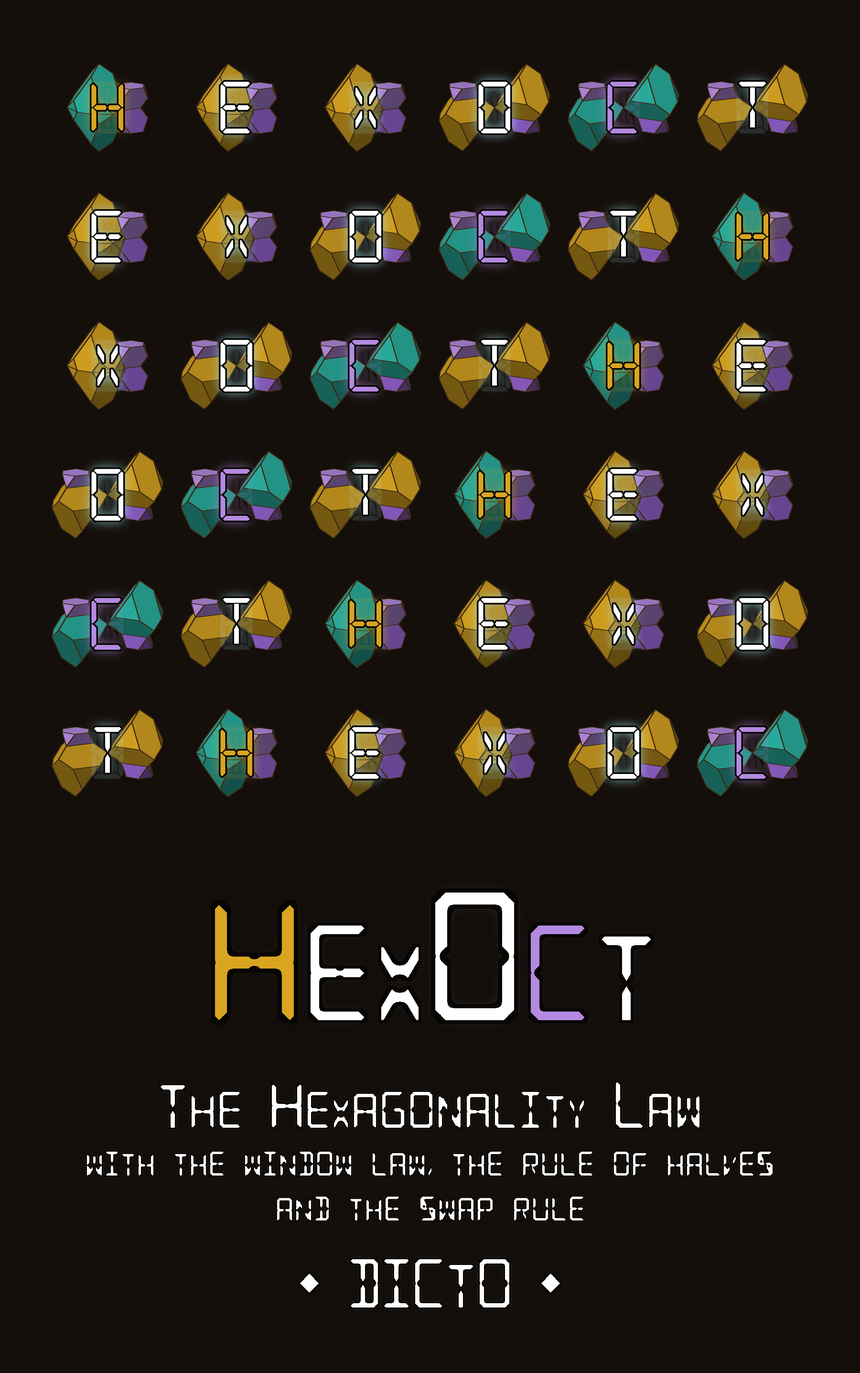
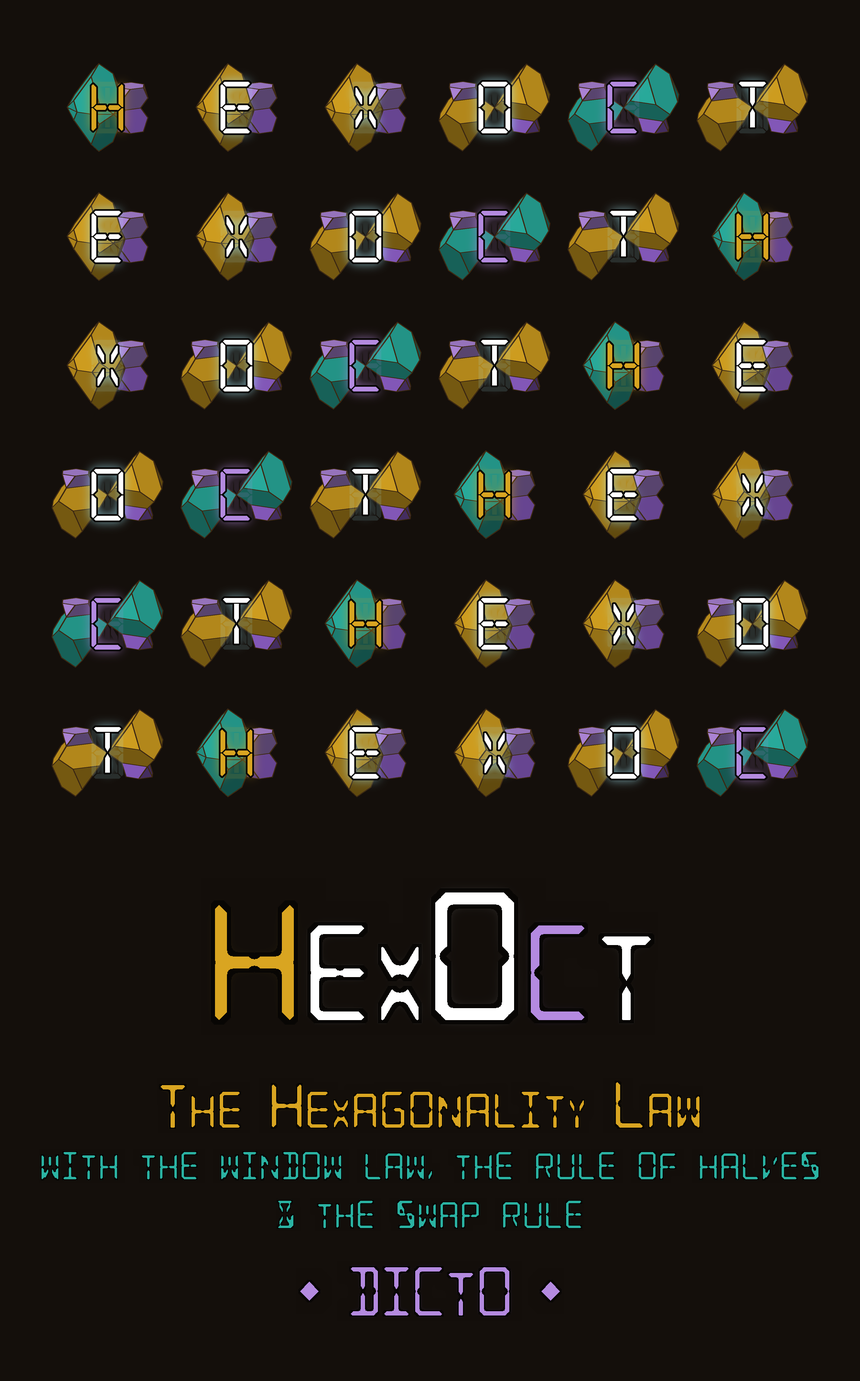
HexOct v7 draft: hierarchy of the rules stated in the opening and the epilogue (same words, table, proofs cited); subtitle with ampersand; cover colours as the other books (gold title, teal subtitle, violet DICTO)

diff --git a/papers/book-laws-of-stacking/paper.html b/papers/book-laws-of-stacking/paper.html
@@ -12,7 +12,7 @@ h1.chapter{break-before:page;font-size:19pt;margin-top:0} p.from{font-size:8.5pt
 .part{break-before:page;height:200mm;display:flex;align-items:center;justify-content:center} h1.partt{font-size:26pt;color:#b8962e}
 table.toc td{border-bottom:1px dotted #ccc;padding:1.2mm 2mm} .titlepage{height:240mm;display:flex;flex-direction:column;justify-content:center}
 .titlepage h1{font-size:30pt} section.epi,section.app{break-before:page} section.app h3{font-size:10pt;margin-top:5mm} section.app p,section.app li{font-size:8.6pt}
-figure img{width:100%;display:block} figure.mid{width:auto}
+figure img{width:100%;display:block} figure.mid{width:auto} table.rules{font-size:8.6pt;margin:2mm 0 3mm} table.rules th{text-align:left} h2,h3{break-after:avoid}
 section.plate{break-before:page;break-inside:avoid} section.plate>img{display:block;width:180mm;height:200mm;margin:0 auto}
 .pcap h2{margin:3mm 0 1mm;font-size:13pt} .pcap p.pkey{font-size:8.6pt;color:#555;margin:0 0 1.5mm} .pcap ul{margin:0;padding-left:5mm} .pcap li{font-size:8.8pt;line-height:1.32;margin:0 0 .6mm}
 /* DICTO 10-29: neutral sans-serif for the whole book (the papers' DejaVu Serif read as Times-like) */
@@ -20,18 +20,18 @@ body,h1,h2,h3,h4,.sub,.meta,figcaption,table,.status,ol.refs{font-family:"Nimbus
 body{font-size:10pt}</style></head><body>
 <img class="watermark" src="../dicto-logo.png" alt="">
 <div class="coverpage" style="height:252mm;display:flex;justify-content:center;align-items:center">
-<img src="figures/cover/hexoct-cover-front-v7.png" alt="Cover: HexOct, The Hexagonality Law, with the Window Law, the Rule of Halves and the Swap Rule, DICTO, over the HexOct square of the two tiles" style="height:248mm;display:block">
+<img src="figures/cover/hexoct-cover-front-v7.png" alt="Cover: HexOct, The Hexagonality Law, with the Window Law, the Rule of Halves &amp; the Swap Rule, DICTO, over the HexOct square of the two tiles" style="height:248mm;display:block">
 </div>
 <div class="titlepage" style="break-before:page">
 <img class="logo" src="../dicto-logo.png" alt="DICTO" style="position:static;width:42mm;margin-bottom:8mm">
 <h1>HexOct</h1>
 <p class="sub">The Hexagonality Law</p>
-<p class="sub" style="margin-top:0">with the Window Law, the Rule of Halves and the Swap Rule</p>
+<p class="sub" style="margin-top:0">with the Window Law, the Rule of Halves &amp; the Swap Rule</p>
 <p class="epigraph" style="margin-top:12mm;font-style:italic;font-size:13pt">The Law gave the pieces,<br>The pieces prove the law.</p>
 <p style="font-size:9pt;color:#555;margin-top:-2mm">DICTO</p>
 <p style="margin-top:14mm"><b>DICTO</b><br>artist, Osaka, Japan · ORCID 0009-0001-2620-2036<br>https://dictospheres.com</p>
 <p style="font-size:9pt;color:#555;margin-top:10mm">Book · Version 7, third edition · 1 November 2026 · DICTO DOI: 10.5281/zenodo.23731359 · Licence CC BY-SA 4.0<br>
-The ideas and names are DICTO's. Computation and proof with Claude (Anthropic).<br>Titled HexOct: The Hexagonality Law from version 5 (DICTO, 30 October 2026); versions 2 to 4 were titled HexOct: The Laws of Stacking, and the first edition The Laws of Stacking (28 October 2026), all the same record.<br>Version 7 adds Part IV, The Window Law (Chapter 15), with the subtitle "with the Window Law, the Rule of Halves and the Swap Rule" (DICTO, 1 November 2026), and reads the whole book within it: the Hexagonality Law is the Window Law's window of one layer. Version 6 added thirteen full-page plates after Chapter 14: the two tiles, HexOct-K, seven stackings built from the tiles, and Chucky, Fang and the Triskelion Tetrahedron.<br>Cover: the HexOct square (DICTO): HEXOCT across the top and down the side, each letter once in every row and column; H, E, X on the h-tile and O, C, T on the c-tile; where the tile matches its letter, H on the h-tile and C on the c-tile, the tile is teal.</p>
+The ideas and names are DICTO's. Computation and proof with Claude (Anthropic).<br>Titled HexOct: The Hexagonality Law from version 5 (DICTO, 30 October 2026); versions 2 to 4 were titled HexOct: The Laws of Stacking, and the first edition The Laws of Stacking (28 October 2026), all the same record.<br>Version 7 adds Part IV, The Window Law (Chapter 15), with the subtitle "with the Window Law, the Rule of Halves &amp; the Swap Rule" (DICTO, 1 November 2026), and reads the whole book within it: the Hexagonality Law is the Window Law's window of one layer. Version 6 added thirteen full-page plates after Chapter 14: the two tiles, HexOct-K, seven stackings built from the tiles, and Chucky, Fang and the Triskelion Tetrahedron.<br>Cover: the HexOct square (DICTO): HEXOCT across the top and down the side, each letter once in every row and column; H, E, X on the h-tile and O, C, T on the c-tile; where the tile matches its letter, H on the h-tile and C on the c-tile, the tile is teal.</p>
 </div>
 <section style="break-before:page">
 <h2>Opening</h2>
@@ -40,7 +40,10 @@ The ideas and names are DICTO's. Computation and proof with Claude (Anthropic).<
 <h2>The Hexagonality Law, defined</h2>
 <p>DICTO's Hexagonality Law is a law of structural crystallography: in every close-packed crystal structure, however its layers are stacked, every count of the structure (its pieces, holes, bonds and swaps) is a straight line in the structure's hexagonality, the crystallographers' share of hexagonal layers.</p>
 <p><b>Its reach, stated exactly</b> (Chapter 15). The counts of the law are totals per layer of what the layers hold: every count read from one layer, and every count of two neighbouring layers that obeys the Swap Rule. The pieces, holes, bonds and swaps of this book are of that kind, since each is borrowed, whole or in half, from one layer's pure stacking (the Rule of Halves) or changes only by swapping (the Swap Rule). A count that sorts sites by what two neighbouring layers do together, and breaks the Swap Rule, such as the octahedra of a perovskite with exactly 0, 1 or 2 shared faces, is not of this kind: the Window Law gives it exactly, as a plane in h and the share p<sub>hh</sub> of neighbouring hexagonal pairs, with the Swap defect as the coefficient of p<sub>hh</sub>.</p>
-<p><b>How the rules fit together.</b> None overrules another. The Window Law always holds, with no geometry assumed; it only says how many numbers a count needs. The Rule of Halves and the Swap Rule are geometry, and they decide the window: the Rule of Halves makes a count of halves a count of one layer, and the Swap Rule brings the counts of whole pieces from two layers down to one. The Hexagonality Law is then the first case of the Window Law, the window of one layer (g = 1). Pair counts beyond the Swap Rule are planes in (h, p<sub>hh</sub>).</p>
+<div style="break-inside:avoid"><p><b>How the rules fit together.</b></p>
+<p><b>The Window Law</b> always holds, for every window g: a count read from g neighbouring layers is a linear function of the shares of the c/h words of length g. <b>The Rule of Halves</b> and <b>the Swap Rule</b> decide which window a count needs. When a count needs only one layer, or two layers and obeys the Swap Rule, the Window Law reduces to <b>the Hexagonality Law</b> (g = 1), the straight line in hexagonality. Pair counts that break the Swap Rule are planes in (h, p<sub>hh</sub>).</p>
+<table class="rules"><tr><th>rule</th><th>place in the hierarchy</th><th>where we prove it</th></tr><tr><td>Window Law (#84)</td><td>always holds, for every window g</td><td>Chapter 15, Main Theorem</td></tr><tr><td>Rule of Halves (#57)</td><td>decides the window: halves are read from one layer, whole pieces from two</td><td>Chapter 1, Theorem (the rule of halves)</td></tr><tr><td>Swap Rule (#61, #64)</td><td>decides the window: Swap defect Δ = 0 brings two-layer counts down to one</td><td>Chapters 3 and 4, Theorem of §3; Chapter 15, Corollary 2</td></tr><tr><td>Hexagonality Law</td><td>g = 1: a straight line in h</td><td>Chapter 15, Corollary 1; Chapter 5, Theorem (Hexagonality Law)</td></tr><tr><td>beyond the Swap Rule</td><td>Δ ≠ 0: a plane in (h, p<sub>hh</sub>), coefficient Δ</td><td>Chapter 15, Main Theorem (d), Corollary 2</td></tr></table>
+<p>We prove this in Chapter 15 (the Window Law, #84), with the Rule of Halves in Chapter 1 and the Swap Rule in Chapters 3 and 4.</p></div>
 <h2>What this book will show</h2>
 <p>By the end of the book seven things will have been demonstrated, each with proof or with the published data that tests it.</p>
 <p>(1) <b>Finitely many pieces.</b> However equal balls are stacked in close-packed layers, the space between and around them is shared out into pieces of finitely many kinds, every one borrowed, whole or in half, from the two pure stackings, cubic and hexagonal (the Rule of Halves, Chapter 1, and its pyrochlore form, Chapter 2).</p>
@@ -1145,8 +1148,10 @@ Proof: V(t|t′) = L(t) + R(t′) with L and R the pure lower and upper half vol
 <p>The second part carried the law into matter. Where the property is a count fixed by geometry, real crystals follow the law exactly: hydrogen sites in titanium and zirconium (2 − h), shared faces in perovskites and battery cathodes (2h), eclipsed bonds in diamond, ice and semiconductors (h/2), kagome planes in magnets (1 + 3(1 − h)). Where the property depends on energy, the law is the first term, and the distance from it is one number per material, the reach of interactions beyond the next layer: tin, germanium, diamond, cobalt and iron lie close to the line; silicon further; silicon carbide, the best-known polytypic material, furthest. In spin ice and water ice the loops that set the frozen-in entropy do not see the stacking at all through every length computed, the law with zero slope (Chapter 13). Geometry fixes what every stacking must contain; the materials choose among the stackings by how far their forces reach.</p>
 <p>The third part returned to the pieces. The Rule of Halves gave them; the two HexOct tiles, the c-tile and the h-tile, are what every layer of every stacking is made of, and they fit in any order (Chapter 14). The law gave the pieces, and the pieces prove the law: a string of the two tiles is a stacking, and each of the laws above is a statement about which tile each layer holds.</p>
 <p>The fourth part set the laws in one frame. The Window Law (Chapter 15) holds for every count of every c/h stacking, with no geometry assumed: a count read from g neighbouring layers is a linear function of the shares of the words of g layers. The Hexagonality Law is its first case, the window of one layer, and it covers exactly what DICTO's definition names, the counts of pieces, holes, bonds and swaps, read from one layer or from two neighbouring layers in a way that obeys the Swap Rule. At two layers one more number enters, the share p<sub>hh</sub> of neighbouring hexagonal pairs, and its coefficient is the Swap defect; so the Swap Rule is exactly the condition for a pair count to stay on the straight line, and a pair count beyond it is a plane in (h, p<sub>hh</sub>). In the physicists' layer model of the second part, the Swap defect is the coupling J<sub>2</sub>, and J<sub>3</sub> is the first coupling that needs three layers: the distance of each material from the line, measured in Chapters 8 to 12, is read window by window. The same frame holds in the perovskites (16 of 36 counts on the line, 9 planes, 11 needing longer windows), in the Frank–Kasper phases, which leave the Yarmolyuk–Kripyakevich line only through one defect, and in the approximants of quasicrystals, which carry zero defect on the chamber that holds the quasicrystal, so that the never-repeating limit lies on the same straight lines. That is one plank of the bridge between periodic and aperiodic order that the Fibonacci stacking began (Chapter 7).</p>
-<h2>How the rules fit together</h2>
-<p>From the general to the particular, and none overruling another. <b>The Window Law</b> always holds; it says how many numbers a count needs. <b>The Rule of Halves</b> is geometry: every piece between two layers is a half from the lower layer's pure stacking and a half from the upper one's, so a count of halves is read from one layer and a count of whole pieces from two. <b>The Swap Rule</b> is geometry too: pieces change only by swapping, which makes the Swap defect of every piece count zero and brings the counts of whole pieces down to one layer. <b>The Hexagonality Law</b> is the result, the Window Law at g = 1: every count of halves, and every count of pieces that obeys the Swap Rule, is a straight line in the hexagonality. Counts of two layers beyond the Swap Rule are planes in (h, p<sub>hh</sub>), and longer windows bring in the shares of longer words, one window at a time.</p>
+<div style="break-inside:avoid"><h2>How the rules fit together</h2>
+<p><b>The Window Law</b> always holds, for every window g: a count read from g neighbouring layers is a linear function of the shares of the c/h words of length g. <b>The Rule of Halves</b> and <b>the Swap Rule</b> decide which window a count needs. When a count needs only one layer, or two layers and obeys the Swap Rule, the Window Law reduces to <b>the Hexagonality Law</b> (g = 1), the straight line in hexagonality. Pair counts that break the Swap Rule are planes in (h, p<sub>hh</sub>).</p>
+<table class="rules"><tr><th>rule</th><th>place in the hierarchy</th><th>proved in</th></tr><tr><td>Window Law (#84)</td><td>always holds, for every window g</td><td>Chapter 15, Main Theorem</td></tr><tr><td>Rule of Halves (#57)</td><td>decides the window: halves are read from one layer, whole pieces from two</td><td>Chapter 1, Theorem (the rule of halves)</td></tr><tr><td>Swap Rule (#61, #64)</td><td>decides the window: Swap defect Δ = 0 brings two-layer counts down to one</td><td>Chapters 3 and 4, Theorem of §3; Chapter 15, Corollary 2</td></tr><tr><td>Hexagonality Law</td><td>g = 1: a straight line in h</td><td>Chapter 15, Corollary 1; Chapter 5, Theorem (Hexagonality Law)</td></tr><tr><td>beyond the Swap Rule</td><td>Δ ≠ 0: a plane in (h, p<sub>hh</sub>), coefficient Δ</td><td>Chapter 15, Main Theorem (d), Corollary 2</td></tr></table>
+<p>Proved in Chapter 15, Main Theorem and Corollaries 1 and 2; the Rule of Halves in Chapter 1, Theorem (the rule of halves); the Swap Rule in Chapters 3 and 4, Theorem of §3; for pieces fixed by two layers, the Swap Rule and the straight line are equivalent by Chapter 5, Theorem (Hexagonality Law).</p></div>
 <h2>The laws and the materials, in one table</h2>
 <h3>Exact on every stacking</h3>
 <table><tr><th>count</th><th>value</th><th>chapter</th></tr>

diff --git a/papers/book-laws-of-stacking/front.html b/papers/book-laws-of-stacking/front.html
@@ -1,16 +1,16 @@
 <div class="coverpage" style="height:252mm;display:flex;justify-content:center;align-items:center">
-<img src="figures/cover/hexoct-cover-front-v7.png" alt="Cover: HexOct, The Hexagonality Law, with the Window Law, the Rule of Halves and the Swap Rule, DICTO, over the HexOct square of the two tiles" style="height:248mm;display:block">
+<img src="figures/cover/hexoct-cover-front-v7.png" alt="Cover: HexOct, The Hexagonality Law, with the Window Law, the Rule of Halves &amp; the Swap Rule, DICTO, over the HexOct square of the two tiles" style="height:248mm;display:block">
 </div>
 <div class="titlepage" style="break-before:page">
 <img class="logo" src="../dicto-logo.png" alt="DICTO" style="position:static;width:42mm;margin-bottom:8mm">
 <h1>HexOct</h1>
 <p class="sub">The Hexagonality Law</p>
-<p class="sub" style="margin-top:0">with the Window Law, the Rule of Halves and the Swap Rule</p>
+<p class="sub" style="margin-top:0">with the Window Law, the Rule of Halves &amp; the Swap Rule</p>
 <p class="epigraph" style="margin-top:12mm;font-style:italic;font-size:13pt">The Law gave the pieces,<br>The pieces prove the law.</p>
 <p style="font-size:9pt;color:#555;margin-top:-2mm">DICTO</p>
 <p style="margin-top:14mm"><b>DICTO</b><br>artist, Osaka, Japan · ORCID 0009-0001-2620-2036<br>https://dictospheres.com</p>
 <p style="font-size:9pt;color:#555;margin-top:10mm">Book · Version 7, third edition · 1 November 2026 · DICTO DOI: 10.5281/zenodo.23731359 · Licence CC BY-SA 4.0<br>
-The ideas and names are DICTO's. Computation and proof with Claude (Anthropic).<br>Titled HexOct: The Hexagonality Law from version 5 (DICTO, 30 October 2026); versions 2 to 4 were titled HexOct: The Laws of Stacking, and the first edition The Laws of Stacking (28 October 2026), all the same record.<br>Version 7 adds Part IV, The Window Law (Chapter 15), with the subtitle "with the Window Law, the Rule of Halves and the Swap Rule" (DICTO, 1 November 2026), and reads the whole book within it: the Hexagonality Law is the Window Law's window of one layer. Version 6 added thirteen full-page plates after Chapter 14: the two tiles, HexOct-K, seven stackings built from the tiles, and Chucky, Fang and the Triskelion Tetrahedron.<br>Cover: the HexOct square (DICTO): HEXOCT across the top and down the side, each letter once in every row and column; H, E, X on the h-tile and O, C, T on the c-tile; where the tile matches its letter, H on the h-tile and C on the c-tile, the tile is teal.</p>
+The ideas and names are DICTO's. Computation and proof with Claude (Anthropic).<br>Titled HexOct: The Hexagonality Law from version 5 (DICTO, 30 October 2026); versions 2 to 4 were titled HexOct: The Laws of Stacking, and the first edition The Laws of Stacking (28 October 2026), all the same record.<br>Version 7 adds Part IV, The Window Law (Chapter 15), with the subtitle "with the Window Law, the Rule of Halves &amp; the Swap Rule" (DICTO, 1 November 2026), and reads the whole book within it: the Hexagonality Law is the Window Law's window of one layer. Version 6 added thirteen full-page plates after Chapter 14: the two tiles, HexOct-K, seven stackings built from the tiles, and Chucky, Fang and the Triskelion Tetrahedron.<br>Cover: the HexOct square (DICTO): HEXOCT across the top and down the side, each letter once in every row and column; H, E, X on the h-tile and O, C, T on the c-tile; where the tile matches its letter, H on the h-tile and C on the c-tile, the tile is teal.</p>
 </div>
 <section style="break-before:page">
 <h2>Opening</h2>
@@ -19,7 +19,10 @@ The ideas and names are DICTO's. Computation and proof with Claude (Anthropic).<
 <h2>The Hexagonality Law, defined</h2>
 <p>DICTO's Hexagonality Law is a law of structural crystallography: in every close-packed crystal structure, however its layers are stacked, every count of the structure (its pieces, holes, bonds and swaps) is a straight line in the structure's hexagonality, the crystallographers' share of hexagonal layers.</p>
 <p><b>Its reach, stated exactly</b> (Chapter 15). The counts of the law are totals per layer of what the layers hold: every count read from one layer, and every count of two neighbouring layers that obeys the Swap Rule. The pieces, holes, bonds and swaps of this book are of that kind, since each is borrowed, whole or in half, from one layer's pure stacking (the Rule of Halves) or changes only by swapping (the Swap Rule). A count that sorts sites by what two neighbouring layers do together, and breaks the Swap Rule, such as the octahedra of a perovskite with exactly 0, 1 or 2 shared faces, is not of this kind: the Window Law gives it exactly, as a plane in h and the share p<sub>hh</sub> of neighbouring hexagonal pairs, with the Swap defect as the coefficient of p<sub>hh</sub>.</p>
-<p><b>How the rules fit together.</b> None overrules another. The Window Law always holds, with no geometry assumed; it only says how many numbers a count needs. The Rule of Halves and the Swap Rule are geometry, and they decide the window: the Rule of Halves makes a count of halves a count of one layer, and the Swap Rule brings the counts of whole pieces from two layers down to one. The Hexagonality Law is then the first case of the Window Law, the window of one layer (g = 1). Pair counts beyond the Swap Rule are planes in (h, p<sub>hh</sub>).</p>
+<div style="break-inside:avoid"><p><b>How the rules fit together.</b></p>
+<p><b>The Window Law</b> always holds, for every window g: a count read from g neighbouring layers is a linear function of the shares of the c/h words of length g. <b>The Rule of Halves</b> and <b>the Swap Rule</b> decide which window a count needs. When a count needs only one layer, or two layers and obeys the Swap Rule, the Window Law reduces to <b>the Hexagonality Law</b> (g = 1), the straight line in hexagonality. Pair counts that break the Swap Rule are planes in (h, p<sub>hh</sub>).</p>
+<table class="rules"><tr><th>rule</th><th>place in the hierarchy</th><th>where we prove it</th></tr><tr><td>Window Law (#84)</td><td>always holds, for every window g</td><td>Chapter 15, Main Theorem</td></tr><tr><td>Rule of Halves (#57)</td><td>decides the window: halves are read from one layer, whole pieces from two</td><td>Chapter 1, Theorem (the rule of halves)</td></tr><tr><td>Swap Rule (#61, #64)</td><td>decides the window: Swap defect Δ = 0 brings two-layer counts down to one</td><td>Chapters 3 and 4, Theorem of §3; Chapter 15, Corollary 2</td></tr><tr><td>Hexagonality Law</td><td>g = 1: a straight line in h</td><td>Chapter 15, Corollary 1; Chapter 5, Theorem (Hexagonality Law)</td></tr><tr><td>beyond the Swap Rule</td><td>Δ ≠ 0: a plane in (h, p<sub>hh</sub>), coefficient Δ</td><td>Chapter 15, Main Theorem (d), Corollary 2</td></tr></table>
+<p>We prove this in Chapter 15 (the Window Law, #84), with the Rule of Halves in Chapter 1 and the Swap Rule in Chapters 3 and 4.</p></div>
 <h2>What this book will show</h2>
 <p>By the end of the book seven things will have been demonstrated, each with proof or with the published data that tests it.</p>
 <p>(1) <b>Finitely many pieces.</b> However equal balls are stacked in close-packed layers, the space between and around them is shared out into pieces of finitely many kinds, every one borrowed, whole or in half, from the two pure stackings, cubic and hexagonal (the Rule of Halves, Chapter 1, and its pyrochlore form, Chapter 2).</p>

diff --git a/papers/book-laws-of-stacking/epilogue.html b/papers/book-laws-of-stacking/epilogue.html
@@ -4,8 +4,10 @@
 <p>The second part carried the law into matter. Where the property is a count fixed by geometry, real crystals follow the law exactly: hydrogen sites in titanium and zirconium (2 − h), shared faces in perovskites and battery cathodes (2h), eclipsed bonds in diamond, ice and semiconductors (h/2), kagome planes in magnets (1 + 3(1 − h)). Where the property depends on energy, the law is the first term, and the distance from it is one number per material, the reach of interactions beyond the next layer: tin, germanium, diamond, cobalt and iron lie close to the line; silicon further; silicon carbide, the best-known polytypic material, furthest. In spin ice and water ice the loops that set the frozen-in entropy do not see the stacking at all through every length computed, the law with zero slope (Chapter 13). Geometry fixes what every stacking must contain; the materials choose among the stackings by how far their forces reach.</p>
 <p>The third part returned to the pieces. The Rule of Halves gave them; the two HexOct tiles, the c-tile and the h-tile, are what every layer of every stacking is made of, and they fit in any order (Chapter 14). The law gave the pieces, and the pieces prove the law: a string of the two tiles is a stacking, and each of the laws above is a statement about which tile each layer holds.</p>
 <p>The fourth part set the laws in one frame. The Window Law (Chapter 15) holds for every count of every c/h stacking, with no geometry assumed: a count read from g neighbouring layers is a linear function of the shares of the words of g layers. The Hexagonality Law is its first case, the window of one layer, and it covers exactly what DICTO's definition names, the counts of pieces, holes, bonds and swaps, read from one layer or from two neighbouring layers in a way that obeys the Swap Rule. At two layers one more number enters, the share p<sub>hh</sub> of neighbouring hexagonal pairs, and its coefficient is the Swap defect; so the Swap Rule is exactly the condition for a pair count to stay on the straight line, and a pair count beyond it is a plane in (h, p<sub>hh</sub>). In the physicists' layer model of the second part, the Swap defect is the coupling J<sub>2</sub>, and J<sub>3</sub> is the first coupling that needs three layers: the distance of each material from the line, measured in Chapters 8 to 12, is read window by window. The same frame holds in the perovskites (16 of 36 counts on the line, 9 planes, 11 needing longer windows), in the Frank–Kasper phases, which leave the Yarmolyuk–Kripyakevich line only through one defect, and in the approximants of quasicrystals, which carry zero defect on the chamber that holds the quasicrystal, so that the never-repeating limit lies on the same straight lines. That is one plank of the bridge between periodic and aperiodic order that the Fibonacci stacking began (Chapter 7).</p>
-<h2>How the rules fit together</h2>
-<p>From the general to the particular, and none overruling another. <b>The Window Law</b> always holds; it says how many numbers a count needs. <b>The Rule of Halves</b> is geometry: every piece between two layers is a half from the lower layer's pure stacking and a half from the upper one's, so a count of halves is read from one layer and a count of whole pieces from two. <b>The Swap Rule</b> is geometry too: pieces change only by swapping, which makes the Swap defect of every piece count zero and brings the counts of whole pieces down to one layer. <b>The Hexagonality Law</b> is the result, the Window Law at g = 1: every count of halves, and every count of pieces that obeys the Swap Rule, is a straight line in the hexagonality. Counts of two layers beyond the Swap Rule are planes in (h, p<sub>hh</sub>), and longer windows bring in the shares of longer words, one window at a time.</p>
+<div style="break-inside:avoid"><h2>How the rules fit together</h2>
+<p><b>The Window Law</b> always holds, for every window g: a count read from g neighbouring layers is a linear function of the shares of the c/h words of length g. <b>The Rule of Halves</b> and <b>the Swap Rule</b> decide which window a count needs. When a count needs only one layer, or two layers and obeys the Swap Rule, the Window Law reduces to <b>the Hexagonality Law</b> (g = 1), the straight line in hexagonality. Pair counts that break the Swap Rule are planes in (h, p<sub>hh</sub>).</p>
+<table class="rules"><tr><th>rule</th><th>place in the hierarchy</th><th>proved in</th></tr><tr><td>Window Law (#84)</td><td>always holds, for every window g</td><td>Chapter 15, Main Theorem</td></tr><tr><td>Rule of Halves (#57)</td><td>decides the window: halves are read from one layer, whole pieces from two</td><td>Chapter 1, Theorem (the rule of halves)</td></tr><tr><td>Swap Rule (#61, #64)</td><td>decides the window: Swap defect Δ = 0 brings two-layer counts down to one</td><td>Chapters 3 and 4, Theorem of §3; Chapter 15, Corollary 2</td></tr><tr><td>Hexagonality Law</td><td>g = 1: a straight line in h</td><td>Chapter 15, Corollary 1; Chapter 5, Theorem (Hexagonality Law)</td></tr><tr><td>beyond the Swap Rule</td><td>Δ ≠ 0: a plane in (h, p<sub>hh</sub>), coefficient Δ</td><td>Chapter 15, Main Theorem (d), Corollary 2</td></tr></table>
+<p>Proved in Chapter 15, Main Theorem and Corollaries 1 and 2; the Rule of Halves in Chapter 1, Theorem (the rule of halves); the Swap Rule in Chapters 3 and 4, Theorem of §3; for pieces fixed by two layers, the Swap Rule and the straight line are equivalent by Chapter 5, Theorem (Hexagonality Law).</p></div>
 <h2>The laws and the materials, in one table</h2>
 <h3>Exact on every stacking</h3>
 <table><tr><th>count</th><th>value</th><th>chapter</th></tr>

diff --git a/studies/2026-10-29-hexoct-cover/scripts/cover_title_v7.py b/studies/2026-10-29-hexoct-cover/scripts/cover_title_v7.py
@@ -1,5 +1,6 @@
-# v7 (DICTO 2026-11-01, "Yup sounds good"): the subtitle line WITH THE WINDOW LAW, THE RULE OF HALVES AND THE SWAP RULE
+# v7 (DICTO 2026-11-01, "Yup sounds good"): the subtitle line WITH THE WINDOW LAW, THE RULE OF HALVES & THE SWAP RULE (ampersand as on the Alicia cover, DICTO 2026-11-01)
 # in smaller letters under the title, otherwise exactly cover_title.py; writes hexoct-cover-front-v7.png (book PDF, Zenodo, site).
+# Colours (DICTO 2026-11-01, as the other covers): HEXOCT wordmark unchanged; title line gold, subtitle teal, DICTO violet.
 # The KDP cover (kdp_cover.py, hexoct-cover-front.png) is untouched: KDP is on hold.
 # Book cover title panel (DICTO 10-29: "bigger text on the front ... same style letters but no LED breaks"): DSEG14 Classic
 # letters with the gaps between segments closed (morphological closing per letter), lit as on the HexOct square: H gold,
@@ -8,6 +9,7 @@
 import numpy as np
 from scipy import ndimage
 from PIL import Image, ImageDraw, ImageFont
+TEAL = (43, 179, 163)   # the tiles' teal (hexoct_square.py MATCH), also the Alicia cover's TEAL
 GROUND = (20, 15, 11); GOLD = (217, 165, 33); VIOLET = (180, 138, 224); WHITE = (255, 255, 255)
 sq = Image.open('../hexoct-square.png').convert('RGB'); N = sq.width
 def glyph(ch, size, col):
@@ -50,13 +52,14 @@ def paste(canvas, img, cx, y):
     rgb, a = img; h, w = a.shape; x = int(cx - w / 2)
     c = canvas[y:y + h, x:x + w]; canvas[y:y + h, x:x + w] = c * (1 - a[..., None]) + rgb * a[..., None]; return y + h
 big = word('HEXOCT', int(N * 0.11), lambda ch: GOLD if ch == 'H' else VIOLET if ch == 'C' else WHITE, big=(0, 3))
-sub = word('THE HEXAGONALITY LAW', int(N * 0.042), lambda ch: WHITE, big=(0, 4, 17))   # DICTO 10-30: book retitled HexOct: The Hexagonality Law
-sub2 = [word(t, int(N * 0.028), lambda ch: WHITE) for t in ('WITH THE WINDOW LAW, THE RULE OF HALVES', 'AND THE SWAP RULE')]
-by = word('* DICTO *', int(N * 0.042), lambda ch: WHITE, big=(0, 2, 3, 4, 5, 6, 8))   # every letter of DICTO is an initial (DICTO)
+sub = word('THE HEXAGONALITY LAW', int(N * 0.042), lambda ch: GOLD, big=(0, 4, 17))   # DICTO 10-30: book retitled HexOct: The Hexagonality Law
+sub2 = [word(t, int(N * 0.032), lambda ch: TEAL) for t in ('WITH THE WINDOW LAW, THE RULE OF HALVES', '& THE SWAP RULE')]
+by = word('* DICTO *', int(N * 0.042), lambda ch: VIOLET, big=(0, 2, 3, 4, 5, 6, 8))   # every letter of DICTO is an initial (DICTO)
 H = big[1].shape[0] + sub[1].shape[0] + sum(w_[1].shape[0] for w_ in sub2) + by[1].shape[0] + int(N * 0.21)
 panel = np.ones((H, N, 3)) * np.array(GROUND, float)
 y = paste(panel, big, N / 2, int(N * 0.02)); y = paste(panel, sub, N / 2, y + int(N * 0.05))
 for w_ in sub2: y = paste(panel, w_, N / 2, y + int(N * 0.018))
 paste(panel, by, N / 2, y + int(N * 0.035))
 out = Image.new('RGB', (N, N + H), GROUND); out.paste(sq, (0, 0)); out.paste(Image.fromarray(np.clip(panel, 0, 255).astype(np.uint8)), (0, N))
+print('subtitle widths',[w_[1].shape[1] for w_ in sub2],'of',N)
 out.save('hexoct-cover-front-v7.png'); print('ok', out.size)

diff --git a/papers/book-laws-of-stacking/assemble.py b/papers/book-laws-of-stacking/assemble.py
@@ -140,7 +140,7 @@ h1.chapter{break-before:page;font-size:19pt;margin-top:0} p.from{font-size:8.5pt
 .part{break-before:page;height:200mm;display:flex;align-items:center;justify-content:center} h1.partt{font-size:26pt;color:#b8962e}
 table.toc td{border-bottom:1px dotted #ccc;padding:1.2mm 2mm} .titlepage{height:240mm;display:flex;flex-direction:column;justify-content:center}
 .titlepage h1{font-size:30pt} section.epi,section.app{break-before:page} section.app h3{font-size:10pt;margin-top:5mm} section.app p,section.app li{font-size:8.6pt}
-figure img{width:100%;display:block} figure.mid{width:auto}
+figure img{width:100%;display:block} figure.mid{width:auto} table.rules{font-size:8.6pt;margin:2mm 0 3mm} table.rules th{text-align:left} h2,h3{break-after:avoid}
 section.plate{break-before:page;break-inside:avoid} section.plate>img{display:block;width:180mm;height:200mm;margin:0 auto}
 .pcap h2{margin:3mm 0 1mm;font-size:13pt} .pcap p.pkey{font-size:8.6pt;color:#555;margin:0 0 1.5mm} .pcap ul{margin:0;padding-left:5mm} .pcap li{font-size:8.8pt;line-height:1.32;margin:0 0 .6mm}
 /* DICTO 10-29: neutral sans-serif for the whole book (the papers' DejaVu Serif read as Times-like) */
